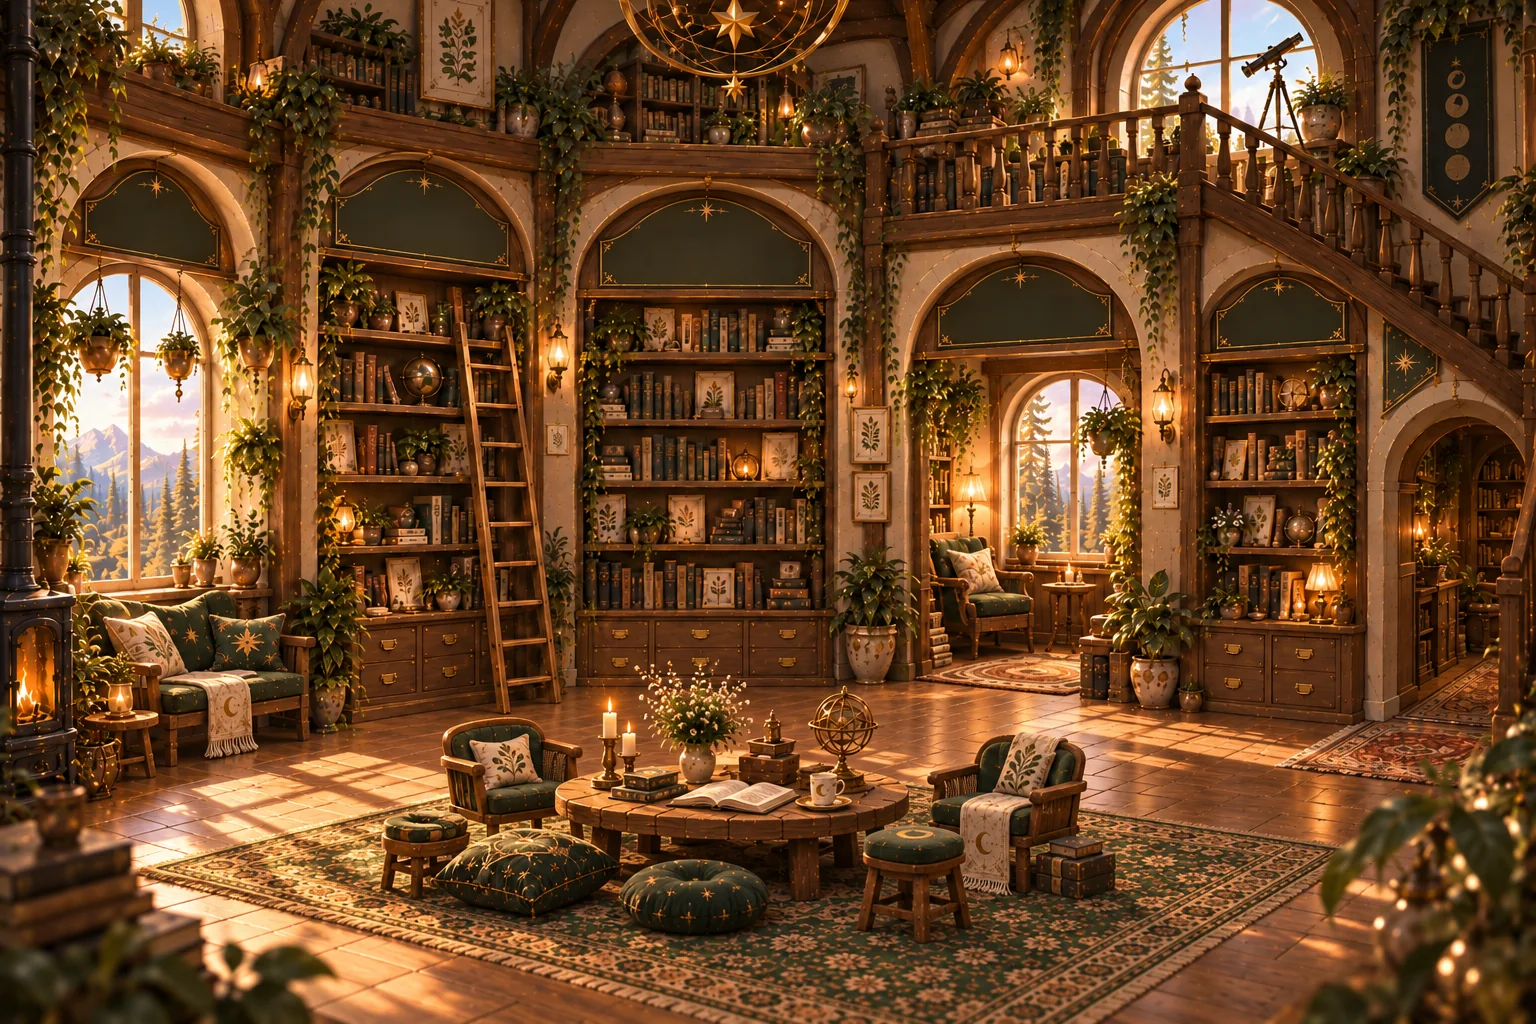
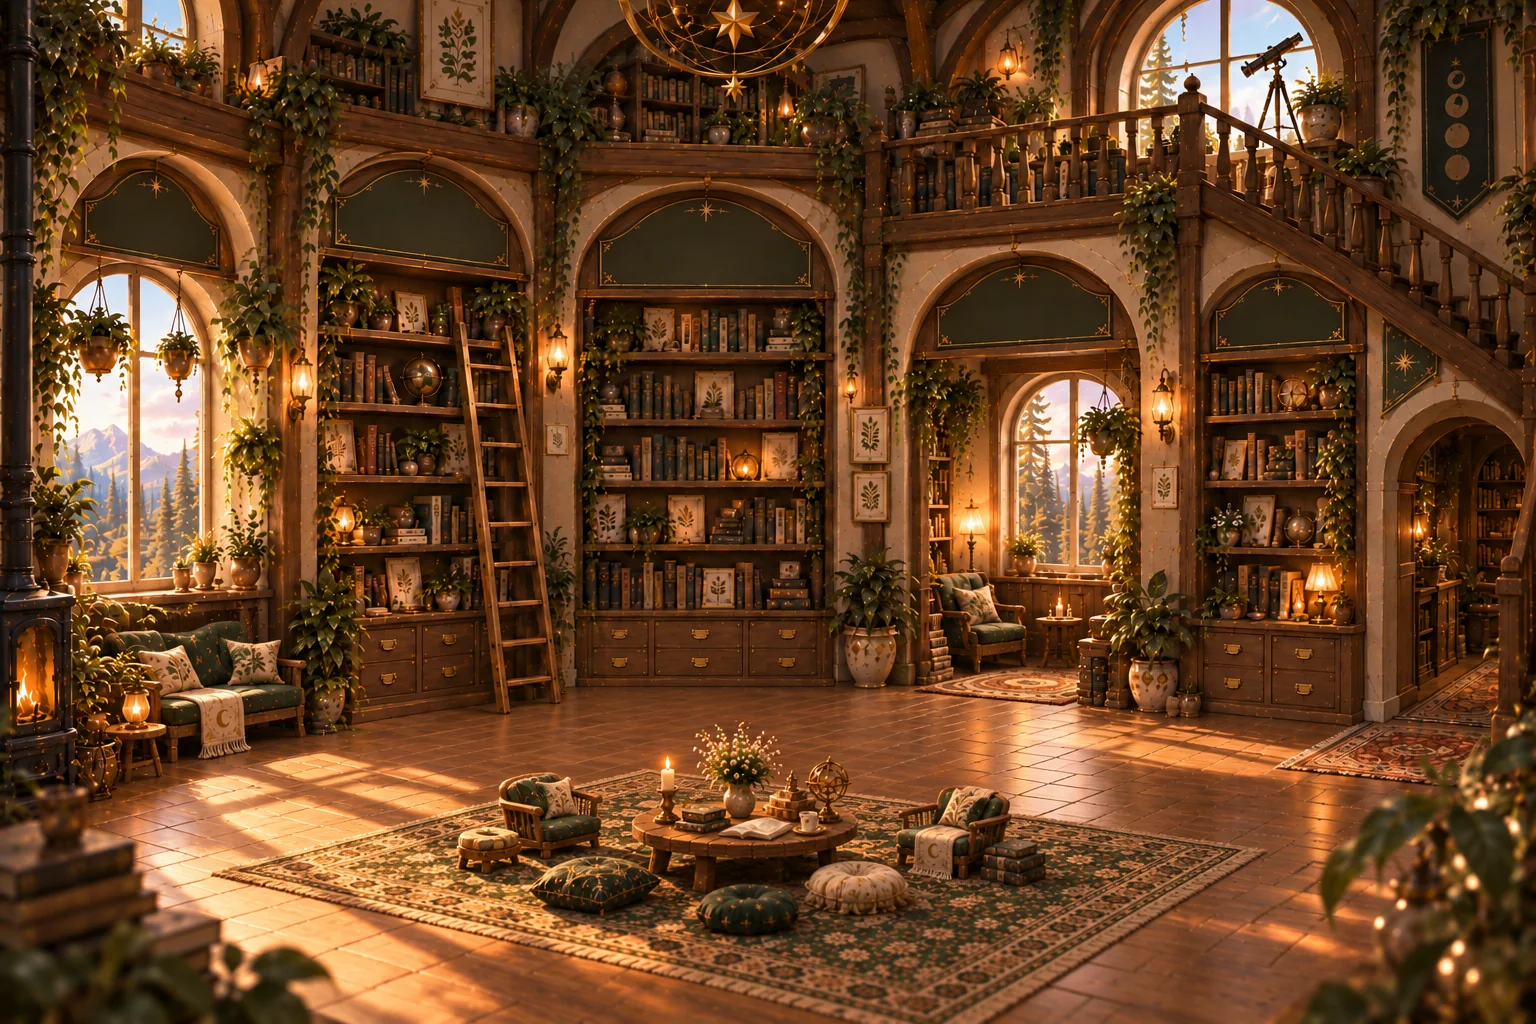
ux: the Library is served from background-smaller2.png — a smaller reading circle on a wider rug
Chanté painted the reading circle smaller again: a low round table, two small armchairs, a stool and cushions, set forward on a wider rug with open floor around it; the architecture is unchanged. public/library-room.webp is regenerated from it (1536x1024, quality 84). Lumi's spot (1190, 890) still stands on open floor right of the circle and now covers only floor and the rug's corner, so it stays. Docs: design-system, features, decisions, art-direction section 1, art/README; the spatial-map manifest and README name the new served painting. No migration; nothing for the user to keep.

diff --git a/src/app/globals.css b/src/app/globals.css
@@ -976,7 +976,7 @@ body:has(.today-scene, .library-scene)::after { display: none; } /* no foxing on
 
 /* ---------- Library: the reading room ----------
    The Library (the Lists page until 2026-09-13) is set in a painted reading
-   room (art/scenery/library/background-small.png → public/library-room.webp).
+   room (art/scenery/library/background-smaller2.png → public/library-room.webp).
    For now the room is the whole page: nothing sits on the painting, and Lumi
    stands on the open floor to the right of the reading circle. The sidebar, the top bar,
    the grain and the way her spot is mapped are shared with Today (the
@@ -1000,6 +1000,6 @@ body:has(.today-scene, .library-scene)::after { display: none; } /* no foxing on
 .library-page { flex: 1 0 auto; }
 /* Lumi's spot (--lumi-x/y above) is on the open floor to the right of the
    reading circle (the round table with its armchairs, stools and cushions),
-   below the stair bookcase: she covers only floor, the rug's edge and the foot
-   of a plant pot, all further back than her feet, and stays clear of the
-   sidebar and the crop at every desktop window. */
+   below the stair bookcase: she covers only floor and the rug's corner, both
+   further back than her feet, and stays clear of the sidebar and the crop at
+   every desktop window. */

diff --git a/docs/art-direction.md b/docs/art-direction.md
@@ -14,7 +14,8 @@ Three directions in three days. Each move kept something and dropped something; 
 
 | Date | Artefact | What it is | Kept | Dropped or open |
 |---|---|---|---|---|
-| 2026-09-13 | `scenery/library/background-small.png` | The same room with furniture at Lumi's scale: the long table gone for a reading circle on the rug (a small round table, two armchairs, two stools, a floor cushion and a round pouf), so the centre bookcase stands clear down to its drawers; a sofa in the window seat | served behind the Library as `public/library-room.webp`; Lumi's rest frame stands on the open floor right of the circle (painting px 1190, 890) | the spatial map (`library-views.json`, `spatial-map/`) was measured on `background.png`: the architecture appears unchanged, but the table, its occluders and the anchors and routes around it are stale until redrawn |
+| 2026-09-13 | `scenery/library/background-smaller2.png` | The reading circle smaller again: a low round table, two small armchairs, a stool, a floor cushion and two poufs, set forward on a wider rug, with open floor all round it; the architecture unchanged | served behind the Library as `public/library-room.webp`; Lumi's rest frame keeps her spot on the open floor right of the circle (painting px 1190, 890), now covering only floor and the rug's corner | at 150px she stands about twice an armchair's height, so whether the furniture or Lumi is the right size is for Chanté's eye on the review port |
+| 2026-09-13 | `scenery/library/background-small.png` | The same room with furniture at Lumi's scale: the long table gone for a reading circle on the rug (a small round table, two armchairs, two stools, a floor cushion and a round pouf), so the centre bookcase stands clear down to its drawers; a sofa in the window seat | served behind the Library for under an hour, until `background-smaller2.png` | the spatial map (`library-views.json`, `spatial-map/`) was measured on `background.png`: the architecture appears unchanged, but the table, its occluders and the anchors and routes around it are stale until redrawn |
 | 2026-09-13 | `scenery/library/shelf-zoom.png`; `scenery/library/library-views.json` and `spatial-map/` | A bookcase close-up at reading scale: an arched *Knowledge* plaque over three rows, each under a dark gold-bordered Thread Group plaque (*Memory & Continuity*, *Ideas & Inspiration*, *Research & Resources*), titles on the spines, a lantern, a globe and plants as separators, an *In Progress* tray. With it, Claude's proposed map of the room: four collection slots, three expansions, 2:3 close-up frames, Thread Group rows and Lumi's anchors | the target information scale for a Collection (readable over showing the whole bay); the built-in plaque; the map is a proposal awaiting Chanté's approval | every word on its plaques and spines is the user's content, drawn in code and never painted; the motto under *Knowledge* (§3 rule 4); the *In Progress* tray reads as a status (§3 rule 3); the room is frontal perspective, not the isometric of bet 5 |
 | 2026-09-13 | `scenery/library/background.png` | The blank-signs room repainted again: the same bays, boards, stove, gallery and stair, the shelves fuller (the centre bay's lower board gone for books), a moon-phase banner by the stair, the table and rug a little further back | the room the spatial map was measured on; never served — `background-small.png` took its place behind the Library the same day | its long table, too big for Lumi and hiding the centre bookcase's lower shelves |
 | 2026-09-13 | `archived/scene_mockups/library-background-blank-signs.png` (was `scenery/library/background.png`) | The reading room repainted with every sign and banner blank: arched bays of shelves under empty boards, the table moved forward onto the rug with a floor cushion and a stool, a stove on the left, the gallery and stair; no Lumi, no words | served behind the Library as `public/library-room.webp` (replacing the first painting the same day); Lumi's rest frame stands on the rug in front of the table | keeps §3 rules 3–4 as painted; the boards are collection slots in the IA below, and whether they ever carry names is [open question 3](living/open-questions.md) |

diff --git a/art/README.md b/art/README.md
@@ -8,7 +8,7 @@ Source art, never served. Five folders, and one that is not committed:
 - `scenery/` — the painted rooms, one folder per place: its `background.png` (the painting served behind the page) and anything else that belongs to that place. Every background is served as `public/<place>-room.webp`, 1536×1024 at quality 84; regenerate after a repaint with `python3 -c "from PIL import Image; Image.open('art/scenery/<place>/background.png').convert('RGB').save('public/<place>-room.webp','WEBP',quality=84,method=6)"`.
   - `scenery/home/` — the lamplit room behind Home (`public/home-room.webp`; `docs/design-system.md` → Home: the room), repainted 2026-09-12 to give Lumi more floor to wander.
   - `scenery/today/` — the greenhouse behind Today (`public/today-room.webp`; → Today: the garden).
-  - `scenery/library/` — the reading room behind the Library, its signs and banners blank `background-small.png`, served as `public/library-room.webp` (→ Library: the reading room), the room with furniture at Lumi's scale; `background.png`, the same room with a long table, which the spatial map was measured on; `book-template.png`, the open book a Thread is set in, empty; and `library-spatial-information-architecture.md`, Chanté's spatial IA for the Library (Library → Collection → Thread Group → Thread). `shelf-zoom.png`, the reading scale a Collection close-up aims for (Thread Group plaques and titles on spines, both to be drawn in code); `library-views.json`, the proposed camera-view manifest (collection slots, Thread Group rows, close-up frames, Lumi's anchors; not yet approved), drawn onto the painting in `spatial-map/` by `scripts/draw-library-map.py`.
+  - `scenery/library/` — the reading room behind the Library, its signs and banners blank `background-smaller2.png`, served as `public/library-room.webp` (→ Library: the reading room), the room with its furniture smallest, sized for Lumi; `background-small.png`, an earlier pass with a larger reading circle; `background.png`, the same room with a long table, which the spatial map was measured on; `book-template.png`, the open book a Thread is set in, empty; and `library-spatial-information-architecture.md`, Chanté's spatial IA for the Library (Library → Collection → Thread Group → Thread). `shelf-zoom.png`, the reading scale a Collection close-up aims for (Thread Group plaques and titles on spines, both to be drawn in code); `library-views.json`, the proposed camera-view manifest (collection slots, Thread Group rows, close-up frames, Lumi's anchors; not yet approved), drawn onto the painting in `spatial-map/` by `scripts/draw-library-map.py`.
 - `mockups/` — the page mockups the scenes are built toward; reference only, never served. Home (`home.png`); Today (`today-mockup.png`); the Library room with its boards named (`library-mockup.png`) and as first painted, with words on its signs (`library-background.png`); a Collection close-up (`shelf-zoom.png`); a Thread as an open book (`book-mockup-1.png`, `book-mockup2.png`, `book_layout-mockup.png`); and a pose sheet of Lumi's idles and actions (`lumi-poses.png` — poses, not in-betweens, never cut).
 - `archived/` — nothing here is cut or served. `rali/`, the earlier character (Rali); `scene_mockups/`, the scene mockups, an earlier cut of the library room (`library-background.png`) and the first blank-signs repaint (`library-background-blank-signs.png`, served for part of 2026-09-13). The scripts still read `archived/rali/rali-slow-idle.png` as the height reference (`scripts/measure-lumi-sheet.py` → `REF`).
 

diff --git a/docs/decisions.md b/docs/decisions.md
@@ -4,6 +4,7 @@ Append-only. One entry per decision that changes `architecture.md`, `domain.md` 
 
 **Product decisions** (what the product is and why, and the constraints they put on future work) live in [`living/decisions.md`](living/decisions.md), the canon's log. An entry here that changes how the product behaves gets a short entry there too.
 
+- **2026-09-13 · The Library is served from `background-smaller2.png`.** Chanté painted the reading circle smaller again (a low round table, two small armchairs, a stool and cushions on a wider rug, open floor around it). `public/library-room.webp` is regenerated from it. Lumi's spot (`--lumi-x: 1190; --lumi-y: 890`) still stands on open floor right of the circle and now covers only floor and the rug's corner, so it stays. `background-small.png` and `background.png` stay in `scenery/library/`. Replaces the served painting in the entry below. No migration; nothing for the user to keep.
 - **2026-09-13 · The Library is served from `background-small.png`, and Lumi stands beside the reading circle.** Chanté painted the room again with furniture at Lumi's scale (a small round table with armchairs, stools and cushions instead of the long table), which also leaves the centre bookcase unobstructed — two of the concerns in the spatial-map proposal. `public/library-room.webp` is regenerated from it. The old spot (700, 900) now falls on the round pouf, so Lumi's spot moves to the open floor right of the circle (`--lumi-x: 1190; --lumi-y: 890`), where everything she covers is further back and she stays clear of the sidebar and the crop at every desktop window. `background.png` stays in `scenery/library/` as the room the spatial map was measured on. Replaces the spot in the entry below. No migration; nothing for the user to keep.
 - **2026-09-13 · A folder per place in `art/scenery/`; the Library's signs are blank.** Chanté reorganised `art/`: each painted place has its own folder holding `background.png` and what else belongs to it (`scenery/home/`, `scenery/today/`, `scenery/library/` with her Library IA and the empty book template), and the mockups gathered in `mockups/`. The Library is served from her repaint with every sign and banner blank (`public/library-room.webp` regenerated), which settles the words-in-the-painting question `art-direction.md` §1 left open; the painting with words is kept as `mockups/library-background.png`. The table moved in the repaint, so Lumi's spot moves with it, to the rug in front of the table (`--lumi-x: 700; --lumi-y: 900`). Served paths (`public/*-room.webp`) unchanged. Replaces the flat `scenery/*-background.png` layout and the Library painting of the entry below. No migration; nothing for the user to keep.
 - **2026-09-13 · The Library is only its room, for now.** Chanté's ask, after seeing the list panel on the painting: the panel comes off. `/library` is the painted reading room with Lumi standing in it and nothing on it. The lists are unchanged underneath — Lumi still files into them, Today still draws its path from them, and the context block still reads them — but no page shows them, so seeing everything, ticking an item off in place and *Add something* are gone from the app; all of it happens in conversation (the companion bubble works on the Library as anywhere). The panel's CSS is deleted rather than hidden; what the Library shows next is open (`art/mockups/book-mockup.png` and `book_layout-mockup.png` show a thread as an open book). Replaces the panel of the entry below.

diff --git a/docs/design-system.md b/docs/design-system.md
@@ -58,12 +58,12 @@ The sidebar becomes a translucent wood panel (`rgba(24,16,10,.6)`, 16px blur); t
 
 Not carried over from the mockup: the filter tabs, the plant per category, the *In Season* panel with step counts (its corner is left open), the *Plant something new* button and the quote's copy — `decisions.md` 2026-09-12 · Today, set in the garden.
 
-**Library: the reading room** (2026-09-13). The Library (the Lists page until then) is set in a painted reading room (`art/scenery/library/background-small.png` → `public/library-room.webp`, 1536×1024 at quality 84, cover-fit, fixed). **For now the room is the whole page:** one layer (`.library-scene`) behind the shell, a visually hidden *Library* heading, and nothing on the painting. A list panel on the right was tried first and taken off the same day (Chanté's ask). Everything that isn't the page itself is shared with the garden — the CSS names both scenes (`:has(.today-scene, .library-scene)`): the veil, the paper sidebar at .84, the parchment top bar with its 240px rule, grain at .14, and Lumi's spot mapping.
+**Library: the reading room** (2026-09-13). The Library (the Lists page until then) is set in a painted reading room (`art/scenery/library/background-smaller2.png` → `public/library-room.webp`, 1536×1024 at quality 84, cover-fit, fixed). **For now the room is the whole page:** one layer (`.library-scene`) behind the shell, a visually hidden *Library* heading, and nothing on the painting. A list panel on the right was tried first and taken off the same day (Chanté's ask). Everything that isn't the page itself is shared with the garden — the CSS names both scenes (`:has(.today-scene, .library-scene)`): the veil, the paper sidebar at .84, the parchment top bar with its 240px rule, grain at .14, and Lumi's spot mapping.
 
 | Piece | In the reading room |
 |---|---|
 | `.library-page` | Fills `.main` (`flex: 1 0 auto`); holds the scene and the hidden heading, nothing else |
-| Lumi | From 1100px (landscape) she stands on the open floor to the right of the reading circle, below the stair bookcase — `--lumi-x: 1190; --lumi-y: 890` in the painting's pixels, mapped through the same cover fit as Today. She covers only floor, the rug's edge and the foot of a plant pot, all further back than her feet, and stays clear of the sidebar and the crop at every desktop window. Below that, her corner |
+| Lumi | From 1100px (landscape) she stands on the open floor to the right of the reading circle, below the stair bookcase — `--lumi-x: 1190; --lumi-y: 890` in the painting's pixels, mapped through the same cover fit as Today. She covers only floor and the rug's corner, both further back than her feet, and stays clear of the sidebar and the crop at every desktop window. Below that, her corner |
 
 The painting's signs and banners are **blank** (repainted 2026-09-13; the first painting, with words on them, is `art/mockups/library-background.png`). The boards are the Library's architectural collection slots in Chanté's IA (`art/scenery/library/library-spatial-information-architecture.md`): fixed places whose names would come from the user's life. Nothing writes on them yet.
 

diff --git a/docs/features.md b/docs/features.md
@@ -65,7 +65,7 @@ Protected-first (`src/proxy.ts`): every route requires sign-in except `/sign-in`
 **Who:** Signed-in.
 **What:** The pile. Open intentions grouped by list (School · Work · Personal · Later by default; `users.preferences.lists`), *(until 2026-09-13, when it came off the painting)* in one column on a paper panel under the running head (*Library* kicker, the *Add something* chip beside it, a divider, then the line *Everything, kept.*); each row is a complete circle (the tick draws itself when ticked), the title, the next action if any, and the estimate or due date as a marginal note in small caps. No per-list counts. With nothing filed anywhere, one line and a tailpiece. One **Add something** chip → Chat with the composer prefilled ("Add to my list: "). Moving between lists and renaming lists happen in conversation for now; drag/reorder later.
 
-- **The reading room** (2026-09-13, Chanté's ask) — the Library is set in a painted library (`art/scenery/library/background-small.png`, served as `public/library-room.webp`): a lamplit reading room with a reading circle on a rug at its heart (a small round table, two armchairs, two stools and floor cushions, sized for Lumi, leaving the centre bookcase clear), arched bays of shelves under blank boards, a stove, a gallery and a stair. **For now the room is the whole page:** the list panel was taken off the painting the same day (Chanté's ask), so nothing sits on it and the lists aren't shown anywhere — they are still kept, Lumi still files into them, and Today still draws its path from them; ticking and correcting happen in conversation. On a wide window Lumi stands on the open floor to the right of the reading circle. Nothing for the user to keep (`design-system.md` → Library: the reading room).
+- **The reading room** (2026-09-13, Chanté's ask) — the Library is set in a painted library (`art/scenery/library/background-smaller2.png`, served as `public/library-room.webp`): a lamplit reading room with a small reading circle on a wide rug at its heart (a low round table, two armchairs, a stool and floor cushions, sized for Lumi, with open floor around it and the centre bookcase clear), arched bays of shelves under blank boards, a stove, a gallery and a stair. **For now the room is the whole page:** the list panel was taken off the painting the same day (Chanté's ask), so nothing sits on it and the lists aren't shown anywhere — they are still kept, Lumi still files into them, and Today still draws its path from them; ticking and correcting happen in conversation. On a wide window Lumi stands on the open floor to the right of the reading circle. Nothing for the user to keep (`design-system.md` → Library: the reading room).
 
 ### Insights (`/insights`) — **built 2026-09-12** (`feat/email-insights`, migration `0002`)
 

diff --git a/art/scenery/library/spatial-map/README.md b/art/scenery/library/spatial-map/README.md
@@ -2,7 +2,7 @@
 
 *2026-09-13 · Claude, from `../background.png` (canonical), `../shelf-zoom.png` (reading scale) and `../library-spatial-information-architecture.md` (governing). Nothing here is approved, and no close-up has been generated.*
 
-**Since drawn:** the Library now serves `../background-small.png`, the same room with furniture at Lumi's scale. The architecture appears unchanged, so the slots, rows and close-up frames should hold. The long table is gone, though, so `central_table`, its occluders, and concerns 1–3 about reaching the centre bookcase and routes around the table need redrawing against the new painting before approval.
+**Since drawn:** the Library now serves `../background-smaller2.png`, the same room with a small reading circle in place of the long table. The architecture appears unchanged, so the slots, rows and close-up frames should hold. The long table is gone, though, so `central_table`, its occluders, and concerns 1–3 about reaching the centre bookcase and routes around the table need redrawing against the new painting before approval.
 
 The images in this folder are annotations drawn by `scripts/draw-library-map.py` from the manifest, `../library-views.json`. The numbers live in the manifest, so edit them there and redraw. The production painting is never touched.
 
